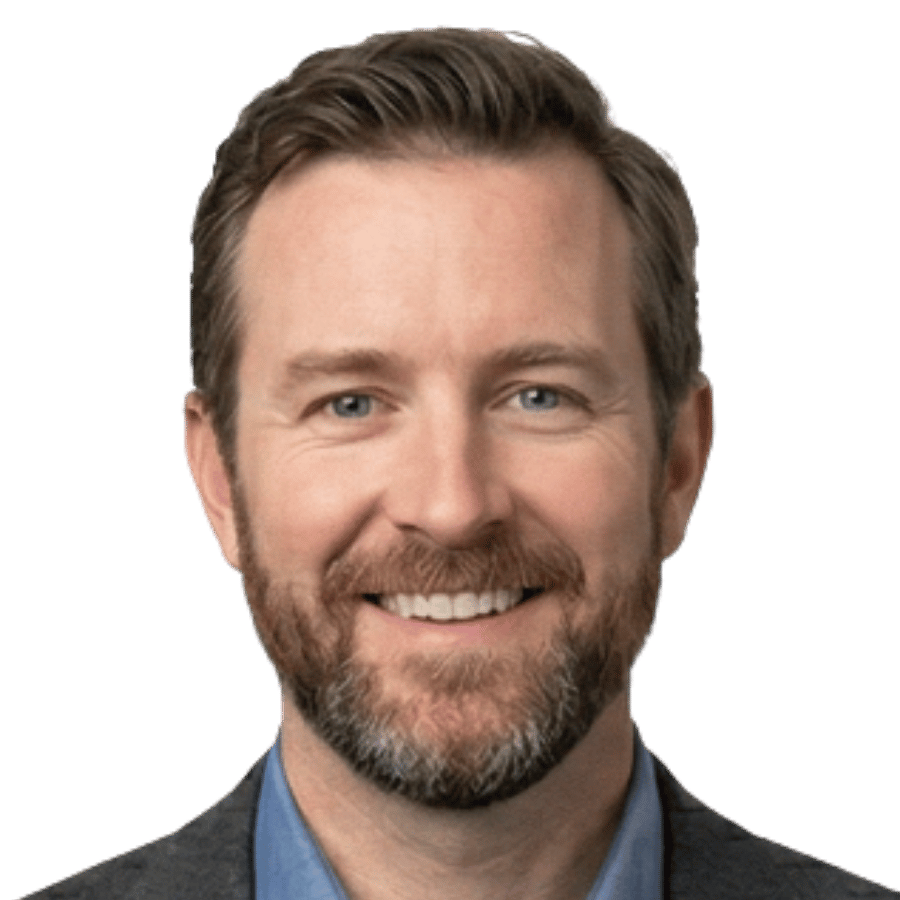
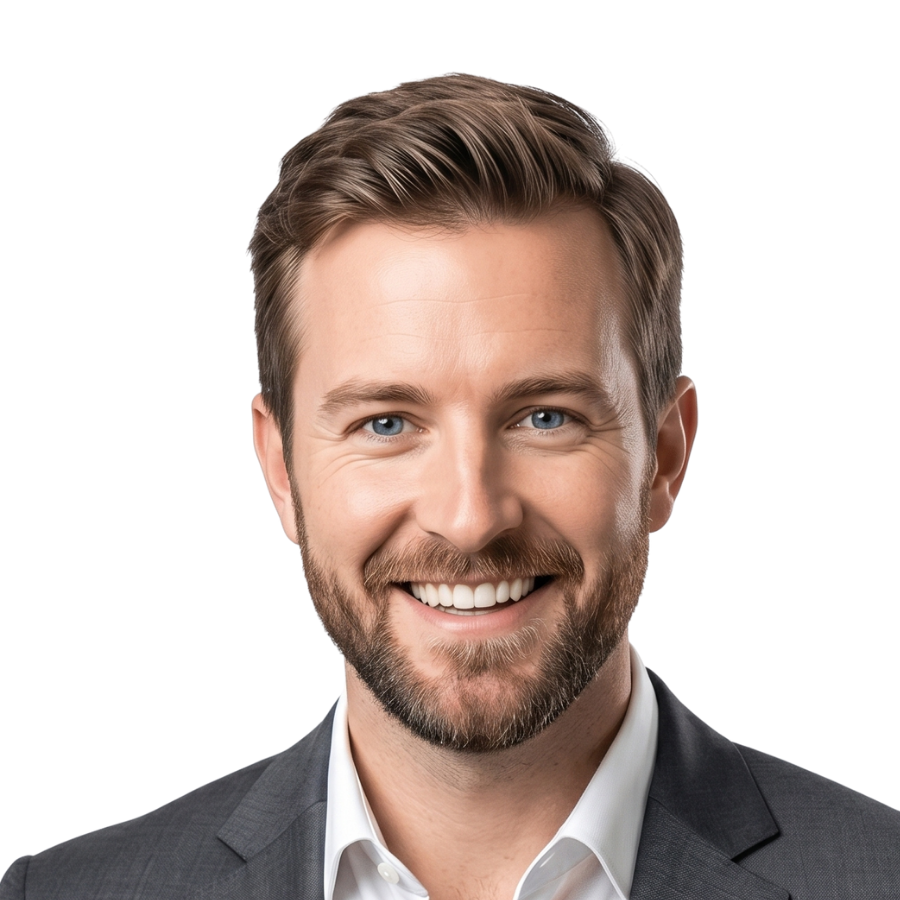
admin: allow internal bearer reads on admin diagnostics.
Permit internal service bearer auth for read-only admin JSON endpoints used by backend diagnostics, and refresh public headshots shipped with the web app.

Made-with: Cursor

diff --git a/backend/internal/app/server.go b/backend/internal/app/server.go
@@ -449,7 +449,7 @@ func (s *Server) handleAdminWaitlist(w http.ResponseWriter, r *http.Request) {
 		http.Error(w, "method not allowed", http.StatusMethodNotAllowed)
 		return
 	}
-	ok, svcUnavail := s.adminReadAuthorized(r)
+	ok, svcUnavail := s.adminReadOrInternalServiceAuthorized(r)
 	if !ok {
 		if svcUnavail {
 			http.Error(w, "admin auth disabled", http.StatusServiceUnavailable)
@@ -473,7 +473,7 @@ func (s *Server) handleAdminUserProfiles(w http.ResponseWriter, r *http.Request)
 		http.Error(w, "method not allowed", http.StatusMethodNotAllowed)
 		return
 	}
-	ok, svcUnavail := s.adminReadAuthorized(r)
+	ok, svcUnavail := s.adminReadOrInternalServiceAuthorized(r)
 	if !ok {
 		if svcUnavail {
 			http.Error(w, "admin auth disabled", http.StatusServiceUnavailable)
@@ -513,7 +513,7 @@ func (s *Server) handleAdminCatalog(w http.ResponseWriter, r *http.Request) {
 	serviceWriteAuthorized := r.Method == http.MethodPut && s.catalogServiceWriteAuthorized(r)
 	if !serviceWriteAuthorized {
 		if r.Method == http.MethodGet {
-			ok, svcUnavail := s.adminReadAuthorized(r)
+			ok, svcUnavail := s.adminReadOrInternalServiceAuthorized(r)
 			if !ok {
 				if svcUnavail {
 					http.Error(w, "admin auth disabled", http.StatusServiceUnavailable)
@@ -576,7 +576,7 @@ func (s *Server) handleAdminCompanyChannels(w http.ResponseWriter, r *http.Reque
 		http.Error(w, "method not allowed", http.StatusMethodNotAllowed)
 		return
 	}
-	ok, svcUnavail := s.companyRegistryReadAuthorized(r)
+	ok, svcUnavail := s.adminReadOrInternalServiceAuthorized(r)
 	if !ok {
 		if svcUnavail {
 			http.Error(w, "admin auth disabled", http.StatusServiceUnavailable)
@@ -701,7 +701,8 @@ func (s *Server) handleAdminCompanyChannelGet(w http.ResponseWriter, r *http.Req
 		http.Error(w, "bad channel id", http.StatusBadRequest)
 		return
 	}
-	if !s.authorizedForCompanyChannelRead(r, chID) {
+	ok, _ := s.adminReadOrInternalServiceAuthorized(r)
+	if !ok && !s.authorizedForCompanyChannelRead(r, chID) {
 		http.Error(w, "unauthorized", http.StatusUnauthorized)
 		return
 	}
@@ -765,7 +766,8 @@ func (s *Server) handleAdminChannelKnowledge(w http.ResponseWriter, r *http.Requ
 		http.Error(w, "bad channel id", http.StatusBadRequest)
 		return
 	}
-	if !s.authorizedForCompanyChannelRead(r, chID) {
+	ok, _ := s.adminReadOrInternalServiceAuthorized(r)
+	if !ok && !s.authorizedForCompanyChannelRead(r, chID) {
 		http.Error(w, "unauthorized", http.StatusUnauthorized)
 		return
 	}

diff --git a/backend/internal/app/admin_auth.go b/backend/internal/app/admin_auth.go
@@ -106,6 +106,18 @@ func (s *Server) companyChannelPatchAuthorized(r *http.Request) (ok bool, servic
 	return s.adminReadAuthorized(r)
 }
 
+// adminReadOrInternalServiceAuthorized allows admin read requests when either:
+// 1) a valid admin session is present, or
+// 2) Authorization Bearer matches BACKEND_INTERNAL_SERVICE_TOKEN (service caller, e.g. in-cluster jobs/bots).
+//
+// This is intentionally read-only and should not be used for mutating /admin routes.
+func (s *Server) adminReadOrInternalServiceAuthorized(r *http.Request) (ok bool, serviceUnavailable bool) {
+	if s.internalServiceBearerAuthorized(r) {
+		return true, false
+	}
+	return s.adminReadAuthorized(r)
+}
+
 func tokenFromAuthHeader(r *http.Request) string {
 	if r == nil {
 		return ""

diff --git a/backend/internal/app/server_stripe_waitlist_admin.go b/backend/internal/app/server_stripe_waitlist_admin.go
@@ -161,7 +161,7 @@ func (s *Server) handleAdminStripeWaitlistPurchasers(w http.ResponseWriter, r *h
 		http.Error(w, "method not allowed", http.StatusMethodNotAllowed)
 		return
 	}
-	ok, svcUnavail := s.adminReadAuthorized(r)
+	ok, svcUnavail := s.adminReadOrInternalServiceAuthorized(r)
 	if !ok {
 		if svcUnavail {
 			http.Error(w, "admin auth disabled", http.StatusServiceUnavailable)

diff --git a/backend/internal/app/admin_capability_routing.go b/backend/internal/app/admin_capability_routing.go
@@ -12,7 +12,7 @@ func (s *Server) handleAdminCapabilityRoutingEvents(w http.ResponseWriter, r *ht
 		http.Error(w, "method not allowed", http.StatusMethodNotAllowed)
 		return
 	}
-	ok, svcUnavail := s.adminReadAuthorized(r)
+	ok, svcUnavail := s.adminReadOrInternalServiceAuthorized(r)
 	if !ok {
 		if svcUnavail {
 			http.Error(w, "admin auth disabled", http.StatusServiceUnavailable)

diff --git a/backend/internal/app/server_slack_member_channels_admin.go b/backend/internal/app/server_slack_member_channels_admin.go
@@ -53,7 +53,7 @@ func (s *Server) handleAdminSlackMemberChannels(w http.ResponseWriter, r *http.R
 		http.Error(w, "method not allowed", http.StatusMethodNotAllowed)
 		return
 	}
-	ok, svcUnavail := s.adminReadAuthorized(r)
+	ok, svcUnavail := s.adminReadOrInternalServiceAuthorized(r)
 	if !ok {
 		if svcUnavail {
 			http.Error(w, "admin auth disabled", http.StatusServiceUnavailable)

diff --git a/backend/internal/app/server_slack_users_admin.go b/backend/internal/app/server_slack_users_admin.go
@@ -95,7 +95,7 @@ func (s *Server) handleAdminSlackWorkspaceUsers(w http.ResponseWriter, r *http.R
 		http.Error(w, "method not allowed", http.StatusMethodNotAllowed)
 		return
 	}
-	ok, svcUnavail := s.adminReadAuthorized(r)
+	ok, svcUnavail := s.adminReadOrInternalServiceAuthorized(r)
 	if !ok {
 		if svcUnavail {
 			http.Error(w, "admin auth disabled", http.StatusServiceUnavailable)
